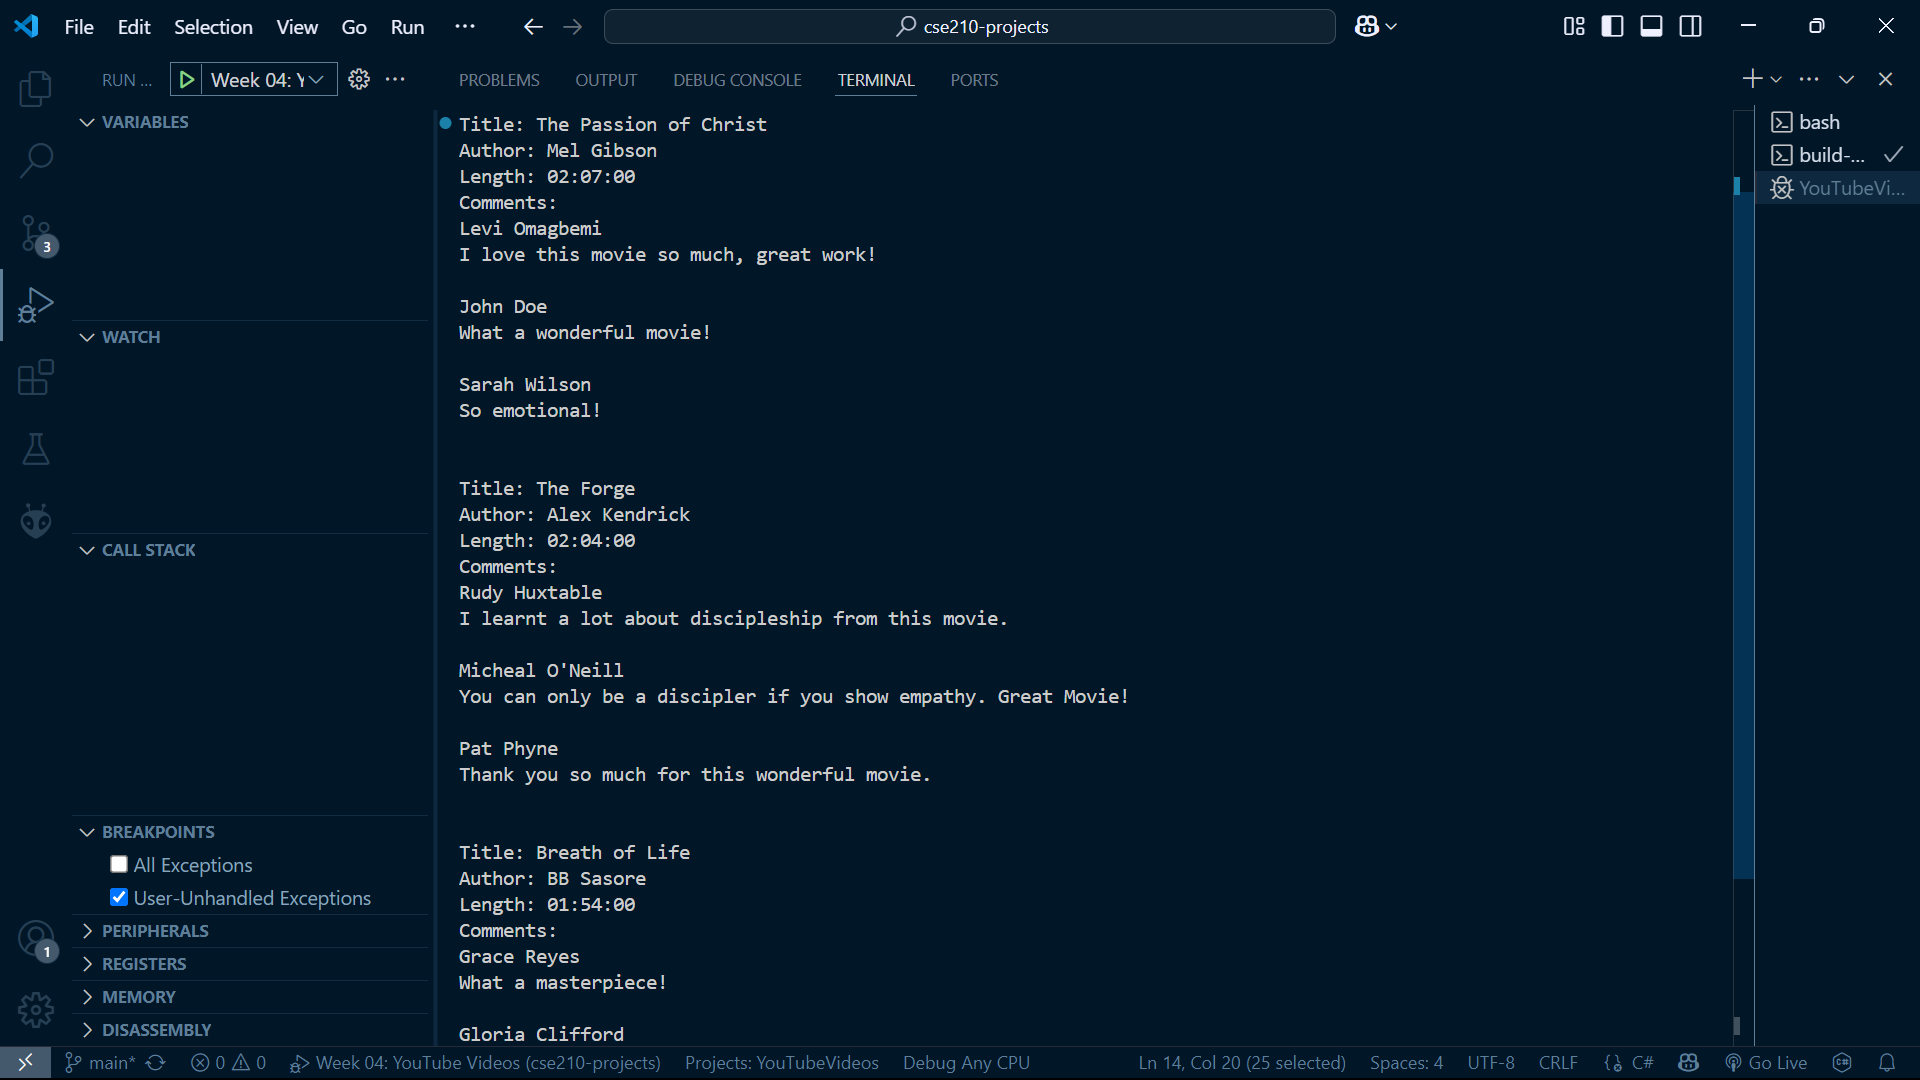
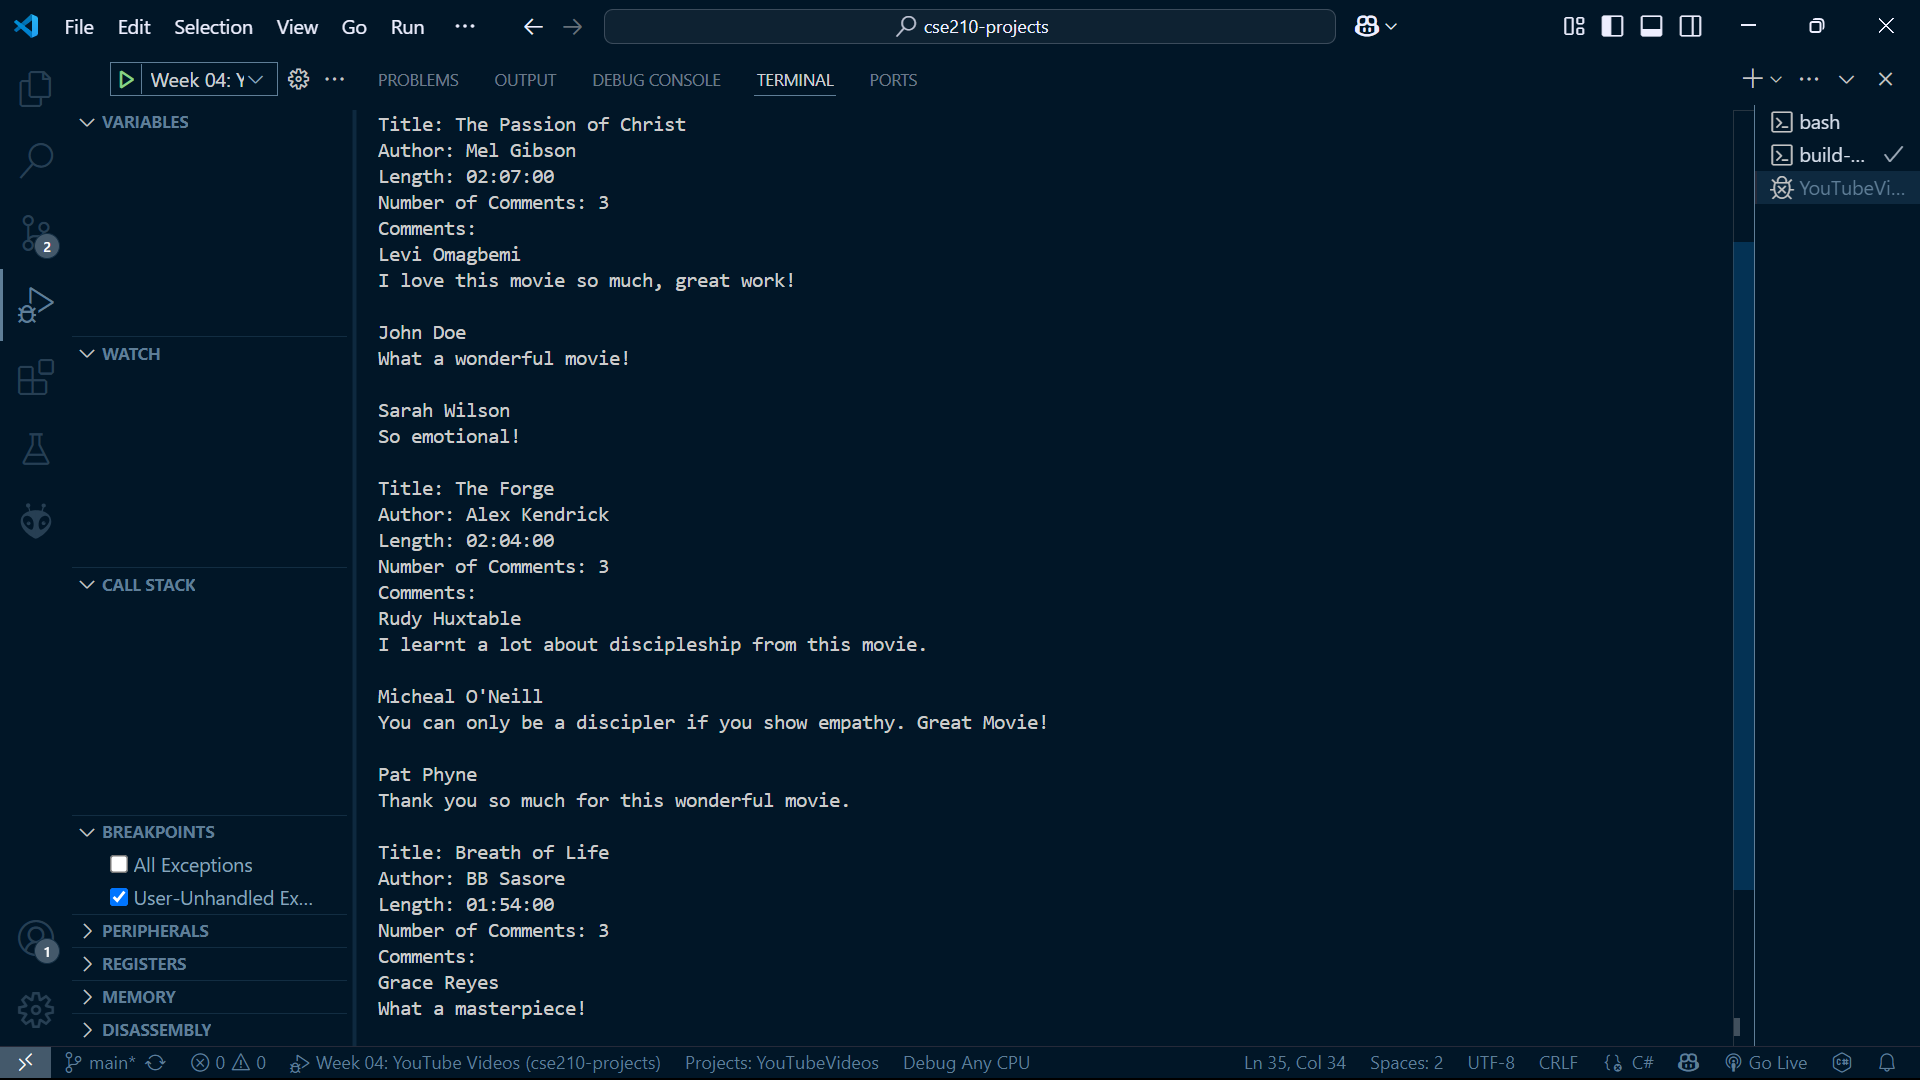
Added number of comments and code clean up

diff --git a/week04/YouTubeVideos/Video.cs b/week04/YouTubeVideos/Video.cs
@@ -21,23 +21,22 @@ public class Video
     _comments.Add(newComment);
   }
 
-  public int GetNoOfComments()
+  private int GetNoOfComments()
   {
     return _comments.Count;
   }
 
   public void Display()
   {
-    string result = $"Title: {_title}\nAuthor: {_author}\nLength: {_length}\n";
-    string comments = "";
+    Console.WriteLine($"Title: {_title}");
+    Console.WriteLine($"Author: {_author}");
+    Console.WriteLine($"Length: {_length}");
+    Console.WriteLine($"Number of Comments: {GetNoOfComments()}");
+    Console.WriteLine($"Comments:");
 
     foreach (Comment comment in _comments)
     {
-      comments += comment.Display();
+      Console.WriteLine(comment.Display());
     }
-
-    result += $"Comments: \n{comments}";
-
-    Console.WriteLine(result);
   }
 }

diff --git a/week04/YouTubeVideos/Comment.cs b/week04/YouTubeVideos/Comment.cs
@@ -15,6 +15,6 @@ public class Comment
 
   public string Display()
   {
-    return $"{_name}\n{_text}\n\n";
+    return $"{_name}\n{_text}\n";
   }
 }
